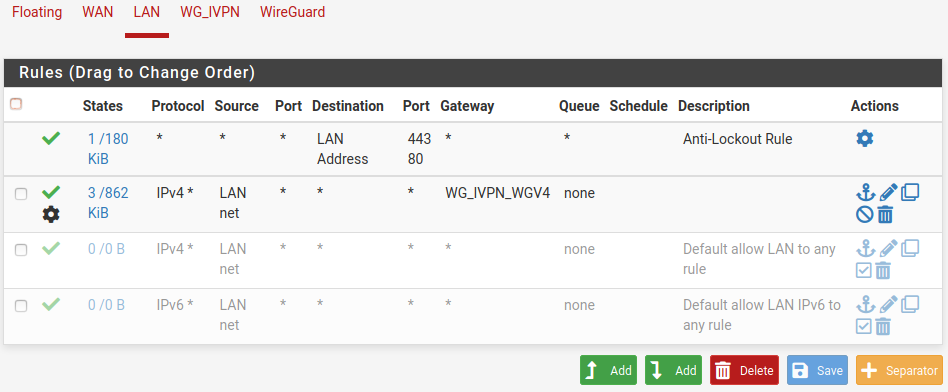
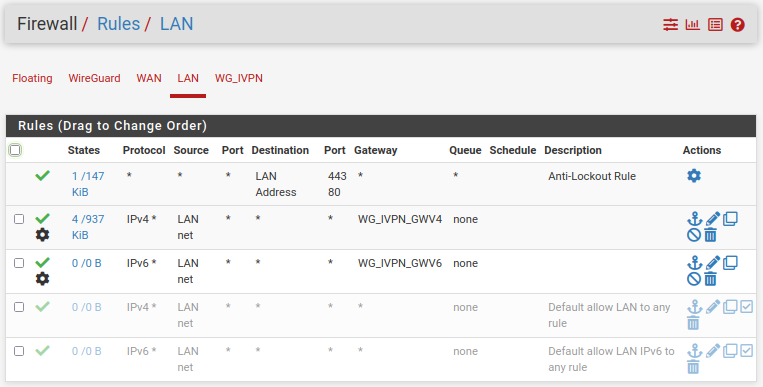
Update WireGuard setup guide for pfSense v2.5.2 + IPv6

diff --git a/src/content/pages/setup/router/pfsense-wireguard.md b/src/content/pages/setup/router/pfsense-wireguard.md
@@ -6,10 +6,41 @@ section: Router Setup
 platform: router
 layout: setup-article
 weight: 31
+contents:
+- item:
+    title: WireGuard Configuration
+    anchor: config
+- item:
+    title: Interfaces
+    anchor: interfaces
+- item:
+    title: Firewall
+    anchor: firewall
+- item:
+    title: Static Routing
+    anchor: routing
+- item:
+    title: DNS
+    anchor: dns
+- item:
+    title: DNS Resolver
+    anchor: resolver
+- item:
+    title: Final Steps
+    anchor: final
 ---
 ## pfSense® WireGuard® Setup Guide
 
-### Set WireGuard Configuration
+<div markdown="1" class="notice notice--warning">
+This guide was produced using pfSense v2.5.2.
+</div>
+
+### Set WireGuard Configuration {#config}
+
+#### Install the Package
+
+1. Click `System` > `Package Manager` and go to `Available Packages`.
+2. Search for "wire" and install the **WireGuard** package.
 
 #### Add a Tunnel
 
@@ -17,19 +48,24 @@ weight: 31
 2. Check `Enabled`.
 3. Enter a `Description`, like **IVPN WG**.
 4. Upload the **Public key** and obtain a client IP address:
-    - Click the `Generate` key button, copy the **Public key**, then go to the **IVPN Account Area** by logging in to the [ivpn.net website](https://www.ivpn.net/account/login/).
+    - In the `Tunnel Configuration` > `Interface Keys` section, click the `Generate` key button, copy the **Public key**, then go to the **IVPN Account Area** by logging in to the [ivpn.net website](https://www.ivpn.net/account/login/).
     - Click the `WireGuard` tab in the **IVPN Account Area** and click `Add a new key`.
-    - Paste the **Public key** and click the `Add` button to obtain a **172.x.y.z** client IPv4 address.
-5. Enter the client IP address into `Address` field with `/32` appended, like **172.x.y.z/32**
+    - Paste the **Public key** and click the `Add` button to obtain a **172.x.y.z** client IPv4 address and a **fd00:4956:504e:ffff::wxyz:wxyz** client IPv6 address.
+5. Enter the client IP address into `Address` field.  For IPv4 addresses, like **172.x.y.z**, choose `32` from the subnet mask dropdown.  For IPv6 addresses, like **fd00:4956:504e:ffff::wxyz:wxyz**, choose `128` from the subnet mask dropdown.
+    <div markdown="1" class="notice notice--info">
+    <strong>Note:</strong> It is possible to use a "simplified" IPv6 address.  Use the IPv6 prefix and add the IPv4 address: <strong>fd00:4956:504e:ffff::172.x.y.z</strong>.  pfSense and other WireGuard clients accept both forms.
+    </div>
+6. Click the `Save Tunnel` button and click the `Apply Changes` button.
 <div markdown="1" class="notice notice--warning">
 Be sure to copy the <strong>Public Key</strong> and not the <strong>Private Key</strong>. The <strong>Private Key</strong> must always be kept a carefully guarded secret.
 </div>
 
 #### Add a Peer
 
-1. Click the `+ Add peer` button and enter the following:
+1. On the new tunnel line (**tun_wg0**), click the `Add Peer` icon (head and shoulders with a + sign) under the **Actions** column and enter the following:
     * `Description`: Describe the VPN server, like **IVPN Ukraine**
-    * `Endpoint`: IP address of IVPN's WireGuard server, hostnames are available on the [IVPN server status page](https://www.ivpn.net/status).
+    * `Dynamic Endpoint`: Unchecked.  
+    * `Endpoint`: IP address or hostname of IVPN's WireGuard server, hostnames are available on the [IVPN server status page](https://www.ivpn.net/status)
 	- To turn the hostname for the Ukraine server (ua.wg.ivpn.net) into an IP address (176.103.57.129), for example, run `nslookup ua.wg.ivpn.net` in a **Command Prompt** on Windows or **Terminal** on macOS or Linux or via `Diagnostics` > `Command Prompt` > `Execute Shell Command` in the pfSense web interface:  
 	> $ nslookup ua.wg.ivpn.net  
 	> ...  
@@ -37,24 +73,39 @@ Be sure to copy the <strong>Public Key</strong> and not the <strong>Private Key<
 	> Address: 176.103.57.129  
     * `Endpoint Port`: Choose one of 53, 2049, 2050, 30587, 41893, 48574, or 58237, all are equally secure
     * `Keep Alive`: 25 seconds is reasonable
-    * `Public key`: IVPN WireGuard server's key, available on the [IVPN server status page](https://www.ivpn.net/status).
-    * `Allowed IPs`: Enter **0.0.0.0/0**
-    * `Peer WireGuard Address`: IVPN WireGuard server's default gateway, **172.16.0.1**
-2. Click the `Update` button on the `Peer` pop-up and click the `Save` button.
+    * `Public key`: IVPN WireGuard server's key, available on the [IVPN server status page](https://www.ivpn.net/status)
+    * `Allowed IPs`: For IPv4 addresses, enter **0.0.0.0/0**.  For IPv6 addresses, enter **::/0**
+2. Click the `Save Peer` button and click the `Apply Changes` button.
 
 ![](/images-static/uploads/pf-wg-10-peer.png)
 
-### Interfaces
+### Interfaces {#interfaces}
 
-1. Navigate to `Interfaces` > `Assignments` and click the `+ Add` button beside `Available networks ports: wg0`.  The interface becomes **OPT1** (or another OPT*).
+1. Navigate to `Interfaces` > `Assignments` and click the `+ Add` button beside `Available networks ports: tun_wg0`.  The interface becomes **OPT1** (or another OPT*).
 2. Click the `Save` button.
 3. Click the `OPT1` interface name link and put a check mark beside `Enable`.
 4. Change the `Description` from **OPT1** to **WG_IVPN**
-5. Click the `Save` button and click the `Apply Changes` button.
-6. Navigate to `Interfaces` > `LAN` and set `MSS` to **1412**
+5. IPv4:
+    * Set `IPv4 Configuration Type` to **Static IPv4**
+    * In the `Set IPv4 Configuration` section, set the `IPv4 Address` to the same **172.x.y.z** IP address that was assigned in the Account Area.  The subnet mask is **/32**
+    * Beside `IPv4 Upstream Gateway`, click the `+ Add a new gateway` button
+    * Change the `Gateway name` to **WG_IVPN_GWV4**
+    * Set `Gateway IPv4` to same **172.x.y.z** IP address that was assigned in the IVPN website **Account Area**
+    * Click the `+ Add` button on the **New Gateway** popup
+6. IPv6:
+    * Set `IPv6 Configuration Type` to **Static IPv6**
+    * In the `Set IPv6 Configuration` section, set the `IPv6 Address` to the same **fd00:4956:504e:ffff::wxyz:wxyz** IP address that was assigned in the Account Area (or use the "simplified" IPv6 address).  The subnet mask is **/128**
+    * Beside `IPv6 Upstream Gateway`, click the `+ Add a new gateway` button
+    * Change the `Gateway name` to **WG_IVPN_GWV6**
+    * Set `Gateway IPv6` to same **fd00:4956:504e:ffff::wxyz:wxyz** IP address that was assigned in the Account Area (or use the "simplified" IPv6 address)
+    * Click the `+ Add` button on the **New Gateway** popup
 7. Click the `Save` button and click the `Apply Changes` button.
+8. Navigate to `Interfaces` > `LAN` and set `MSS` to **1412**
+9. Click the `Save` button and click the `Apply Changes` button.
 
-### Firewall
+![](/images-static/uploads/pf-wg-15-interface.png)
+
+### Firewall {#firewall}
 
 #### NAT
 
@@ -73,12 +124,14 @@ Be sure to copy the <strong>Public Key</strong> and not the <strong>Private Key<
 1. Navigate to `Firewall` > `Rules` > `LAN`, click the `Add (top)` button and set the following:
     - `Action`: **Pass**
     - `Interface`: **LAN**
+    - `Address Family`: **IPv4**
     - `Protocol`: **Any**
     - `Source`: **LAN net**
     - Add an optional `Description`
-    - Click `Extra Options` > `Display Advanced` and scroll down to `Gateway` and set it to the WG_IVPN gateway **WG_IVPN_WGV4**
+    - Click `Extra Options` > `Display Advanced` and scroll down to `Gateway` and set it to the WG_IVPN gateway **WG_IVPN_GWV4**
 2. Click the `Save` button and click the `Apply Changes` button.
-3. Disable the default WAN access firewall rules on the  `Firewall` > `Rules` > `LAN` page:
+3. If your LAN includes IPv6, create another firewall rule following step #1 above.  Set `Address Family` to **IPv6** and set `Advanced` > `Gateway` to **WG_IVPN_GWV6**, then click `Save` and `Apply Changes`.
+4. Disable the default WAN access firewall rules on the  `Firewall` > `Rules` > `LAN` page:
     - Click the green check marks beside the `Default allow` rules for IPv4* and IPv6* to turn them off.
     - Click the `Apply Changes` button.
 
@@ -110,7 +163,7 @@ Be sure to copy the <strong>Public Key</strong> and not the <strong>Private Key<
 
 ![](/images-static/uploads/pf-wg-50-killswitch.png)
 
-### Static Routing
+### Static Routing {#routing}
 
 1. Navigate to `System` > `Routing` > `Static routes` tab.
 2. Click the `Add` button and configure the routes as follows:
@@ -118,12 +171,12 @@ Be sure to copy the <strong>Public Key</strong> and not the <strong>Private Key<
     - `Gateway`: Your router's `WAN` gateway
     - `Description`: "WAN to VPN"
     - Click `Save`
-3. Navigate to `System` > `Routing` > `Gateways` tab and set `Default gateway IPv4` to `WG_IVPN_WGV4`.
+3. Navigate to `System` > `Routing` > `Gateways` tab and set `Default gateway IPv4` to **WG_IVPN_GWV4** and set `Default gateway IPv6` to **WG_IVPN_GWV6**.
 4. Click `Save` and `Apply changes`.
 
 ![](/images-static/uploads/pf-wg-35-routing.png)
 
-### DNS
+### DNS {#dns}
 
 1. Navigate to `System` > `General Setup` > `DNS` and set the `DNS Servers` > `Address` to one of the three internal DNS server options:
     - *172.16.0.1* = regular DNS with no blocking
@@ -135,13 +188,18 @@ Be sure to copy the <strong>Public Key</strong> and not the <strong>Private Key<
 4. Navigate to `Services` > `DHCP Server` and set the `DNS Servers` > `DNS Server 1` to the DNS server you chose in step #1 above.
 5. Click `Save`.
 
-### DNS Resolver
+### DNS Resolver {#resolver}
 
 1. Navigate to `Services` > `DNS Resolver` and have `Enable DNSSEC` checked.
 2. Check `Enable Forwarding Mode` beside `DNS Query Forwarding`.
 3. Click the `Save` button and click the `Apply Changes` button.
 
-### Final Steps
+### Final Steps {#final}
 
 1. A device reboot is not required, though it may be useful to confirm that everything behaves as expected.
 2. Run a leak test at [https://www.dnsleaktest.com](https://www.dnsleaktest.com) via one of the internal network clients attached to your pfSense router.
+3. Use `curl` on the pfSense router to confirm the router's traffic uses the VPN connection:
+    - Go to `Diagnostics` > `Command Prompt`.
+    - For IPv4, enter `curl -4 ifconfig.co` in the `Execute Shell Command` box, then press `Execute`.
+    - For IPv6, enter `curl -6 ifconfig.co` in the `Execute Shell Command` box, then press `Execute`.
+    - In both cases, the IP address on the last line of the shell output is the VPN server.
